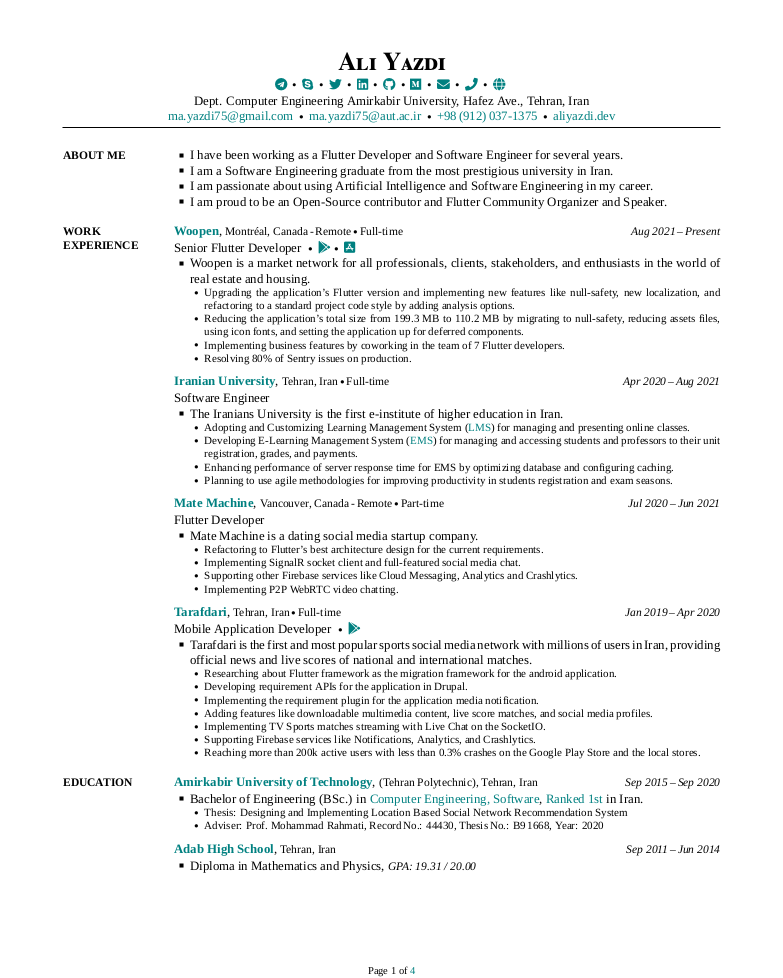
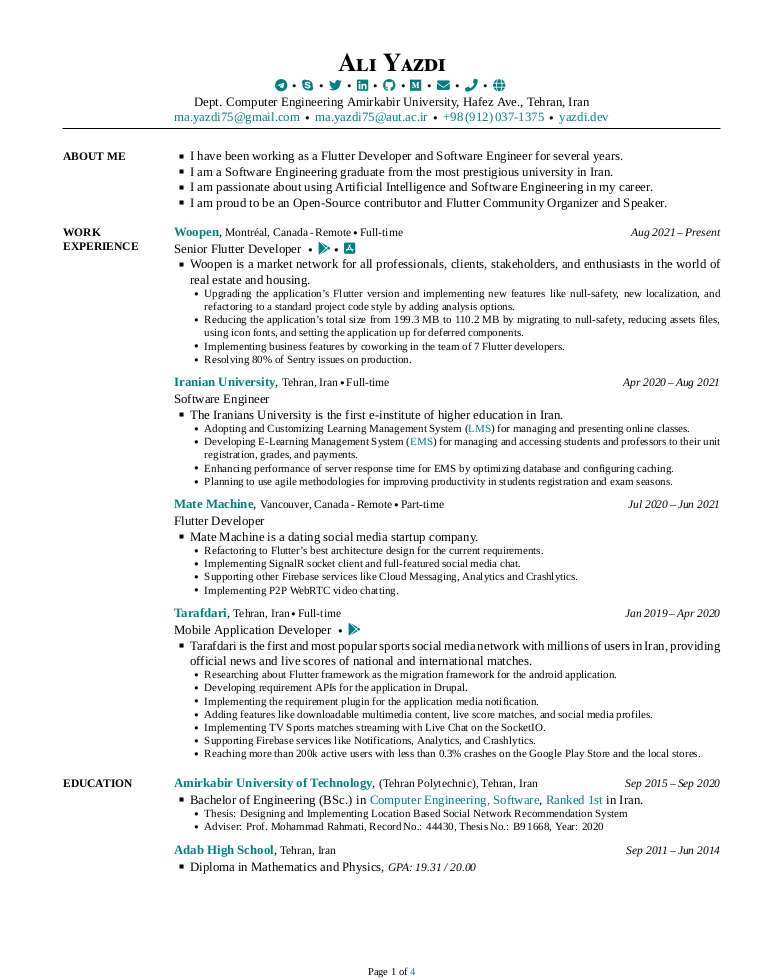
correct a typo

diff --git a/AYazdiCV.tex b/AYazdiCV.tex
@@ -28,7 +28,7 @@
 \newcommand{\CVAuthor}{Ali Yazdi}
 \newcommand{\CVTitle}{Ali Yazdi's Resume}
 \newcommand{\CVNote}{Last Update on \today}
-\newcommand{\CVWebpageName}{aliyazdi.dev}
+\newcommand{\CVWebpageName}{yazdi.dev}
 \newcommand{\CVWebpage}{https://yazdi.dev}
 \newcommand{\PDFKeywords}{resume, cv, aliyazdi75, \CVAuthor, flutter, developer}
 
